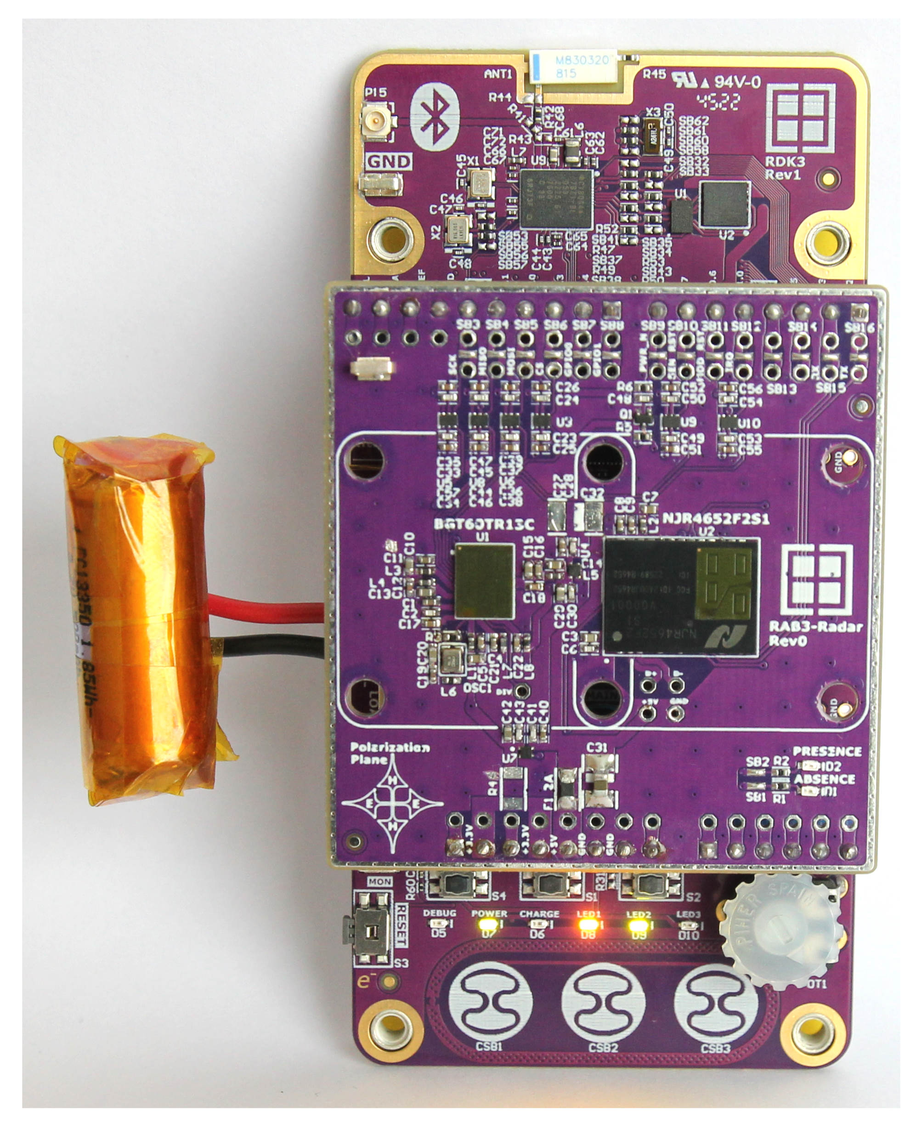
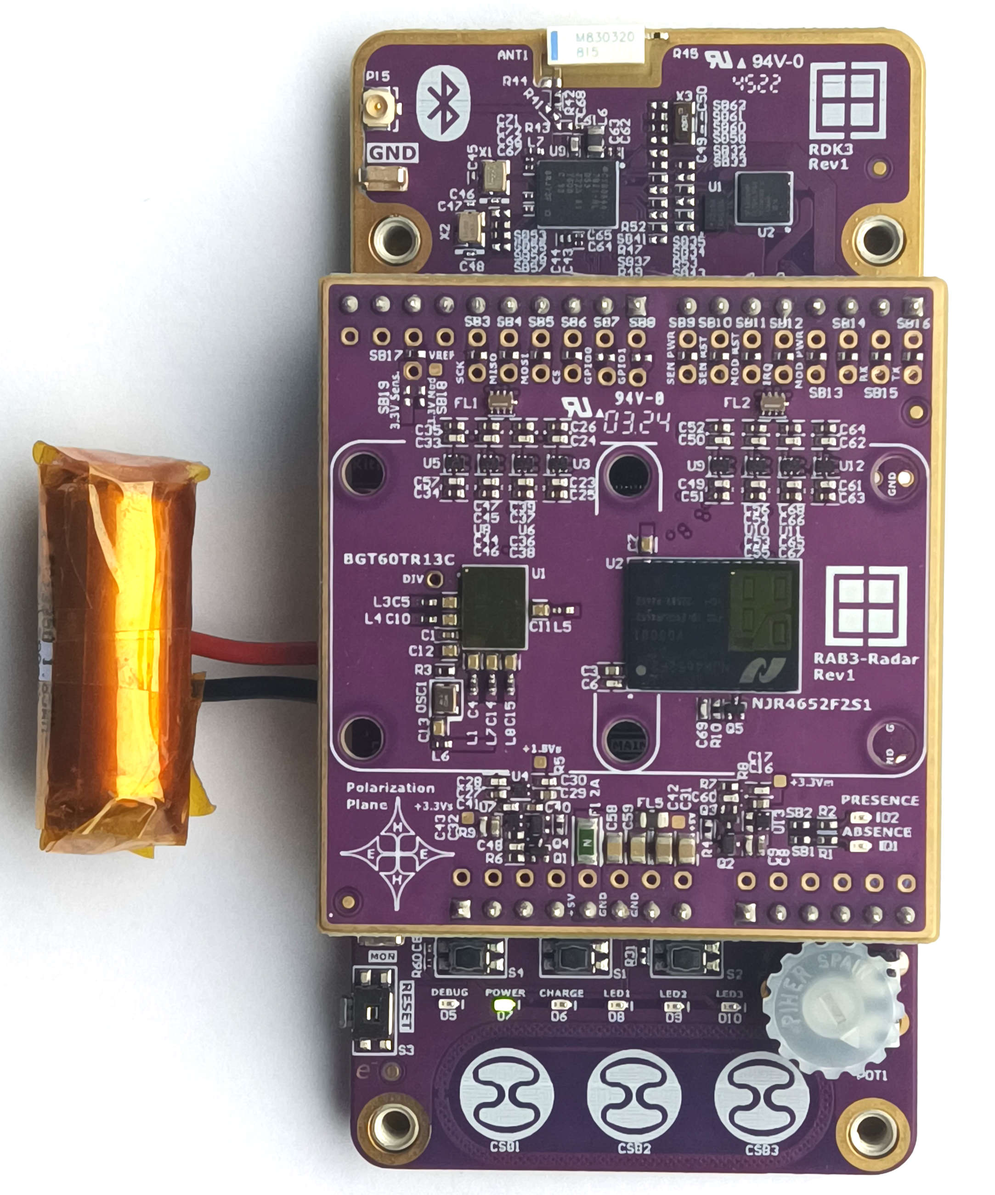
Rev1 updates.

diff --git a/rutronik_app.c b/rutronik_app.c
@@ -159,15 +159,16 @@ static int init_radar()
 	if (init_spi() != 0) return -1;
 
     /* Enable the Power for the BGT60TR13C Sensor. */
-    result = cyhal_gpio_init(ARDU_IO3,
-                             CYHAL_GPIO_DIR_OUTPUT,
-                             CYHAL_GPIO_DRIVE_STRONG,
-                             false);
+    /*Initialize BGT60TR13C Power Control pin*/
+    result = cyhal_gpio_init(ARDU_IO3, CYHAL_GPIO_DIR_OUTPUT, CYHAL_GPIO_DRIVE_STRONG, true); /*Turn it ON*/
     if (result != CY_RSLT_SUCCESS) return -2;
 
-    /*Initialize NJR4652F2S1 Module RESET and keep it low*/
-    result = cyhal_gpio_init( ARDU_IO5, CYHAL_GPIO_DIR_OUTPUT, CYHAL_GPIO_DRIVE_STRONG, false);
+    /*Initialize NJR4652F2S2 POWER pin*/
+    result = cyhal_gpio_init(ARDU_IO7, CYHAL_GPIO_DIR_OUTPUT, CYHAL_GPIO_DRIVE_OPENDRAINDRIVESLOW, false); /*Keep it OFF*/
     if (result != CY_RSLT_SUCCESS) return -2;
+
+    /*Must wait at least 1ms until the BGT60TR13C sensor power supply gets to nominal value*/
+    CyDelay(10);
 
     result = xensiv_bgt60trxx_mtb_init(&sensor,
                                        &spi_obj,

diff --git a/README.md b/README.md
@@ -9,7 +9,7 @@ This code example demonstrates the Infineon XENSIV™  Presence Detection algori
 ## Requirements
 
 - [ModusToolbox™ software](https://www.cypress.com/products/modustoolbox-software-environment) v3.1
-- [RAB3-Radar](https://github.com/RutronikSystemSolutions/RAB3_Radar_Hardware_Files) Rev0 [[prototype](https://github.com/RutronikSystemSolutions/RAB3_Radar_Hardware_Files/tree/main/Rev0)]
+- [RAB3-Radar](https://github.com/RutronikSystemSolutions/RAB3_Radar_Hardware_Files) Rev1
 
 ## The Provisioning of the RDK3
 
@@ -42,8 +42,6 @@ This code example will output the results of the presence detection algorithm in
 You can change the radar configuration used to measure by generating a new "radar_settings.h" configuration.
 
 Use the tool provided by Infineon “[Radar Fusion GUI](https://softwaretools.infineon.com/tools/com.ifx.tb.tool.ifxradargui)” to generate a new version of the file.
-
-Current limitation: a maximum speed of 5 MHz can be used on the SPI bus to read the data out of the radar's FIFO. If you generate too much data (too much frames per seconds for example) you might have communication problems.
 
 #### Change the configuration of the presence detection algorithm
 The configuration of the presence detection algorithm can be directly changed inside the rutronik_app.c file.
